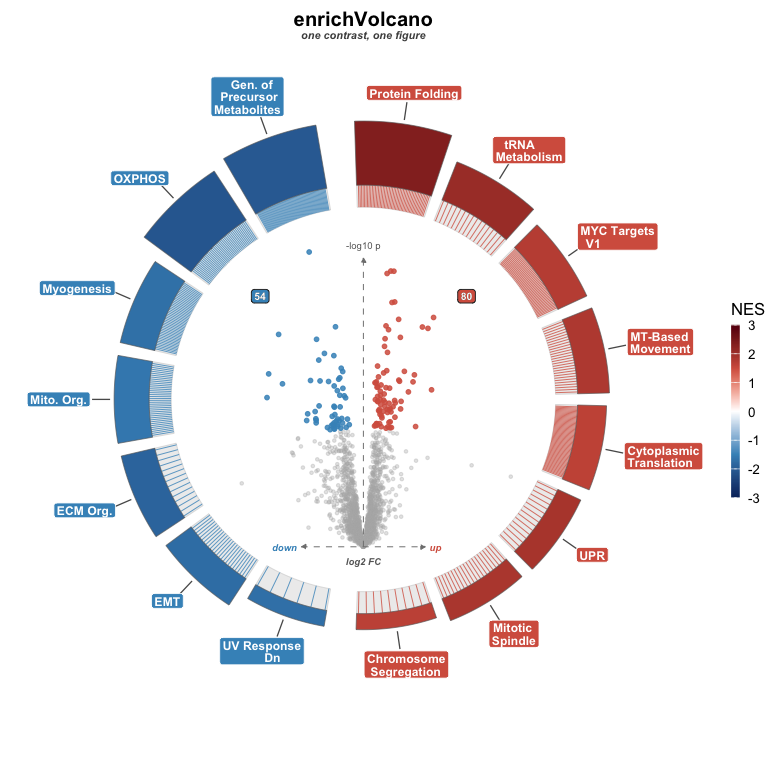
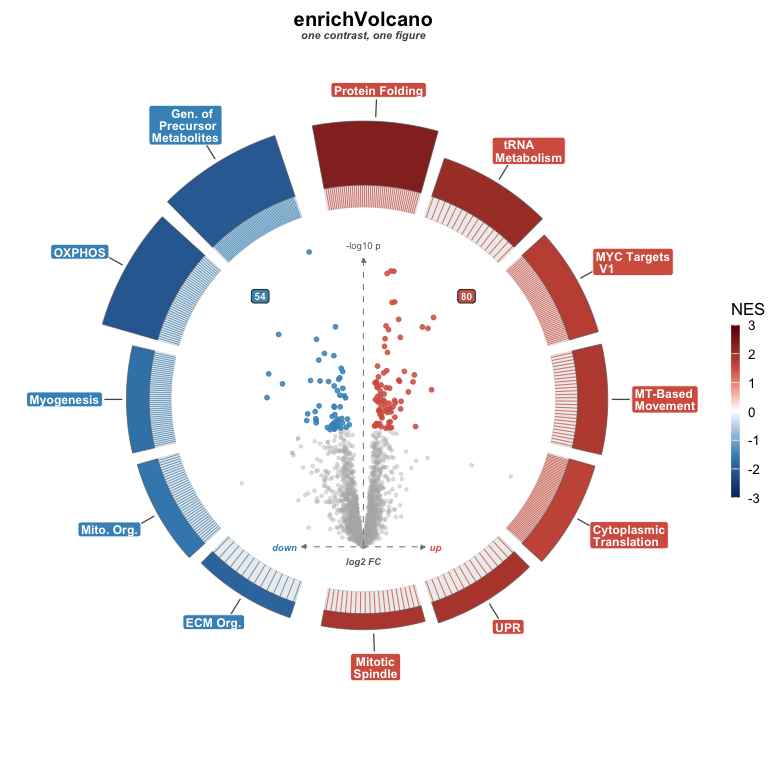
ring the twelve most significant terms, whichever way they point

Changed region(s): [[0.0312, 0.0935, 0.9351, 0.9039], [0.6234, 0.1558, 0.7481, 0.2494]]

diff --git a/NEWS.md b/NEWS.md
@@ -6,8 +6,8 @@
   data frame described by column-name arguments. `volcano_ring()` loses
   `term_col`, `nes_col`, `size_col`, `genes_col` and `genes_sep`, and gains
   `contrast`; `volcano_ring_grid()` takes one `enrichment` for all contrasts.
-* `volcano_ring()` now chooses its terms: significant ones (`term_threshold`),
-  up to `n_terms` per direction, from `databases` (Hallmark and GO slim by
+* `volcano_ring()` now chooses its terms: the `n_terms` (12) most significant
+  below `term_threshold`, in either direction, from `databases` (Hallmark and GO slim by
   default), with redundant terms hidden (`collapse`). `terms` hand-picks
   instead.
 * `magnitude` defaults to `"neg_log_padj"` for NES and `"size"` for other

diff --git a/README.md b/README.md
@@ -57,10 +57,10 @@ score is the signed −log10(FDR) and the legend says so.
 - **Ticks:** spokes from each arc to its leading-edge genes in the
   volcano.
 
-By default the ring draws up to eight significant terms per direction
-from Hallmark and GO slim; `databases`, `n_terms`, `term_threshold` and
-`terms` change that. `vignette("enrichVolcano")` walks every step on the
-bundled example.
+By default the ring draws the twelve most significant terms, in either
+direction, from Hallmark and GO slim; `databases`, `n_terms`,
+`term_threshold` and `terms` change that. `vignette("enrichVolcano")`
+walks every step on the bundled example.
 
 ## Cite the methods you used
 
